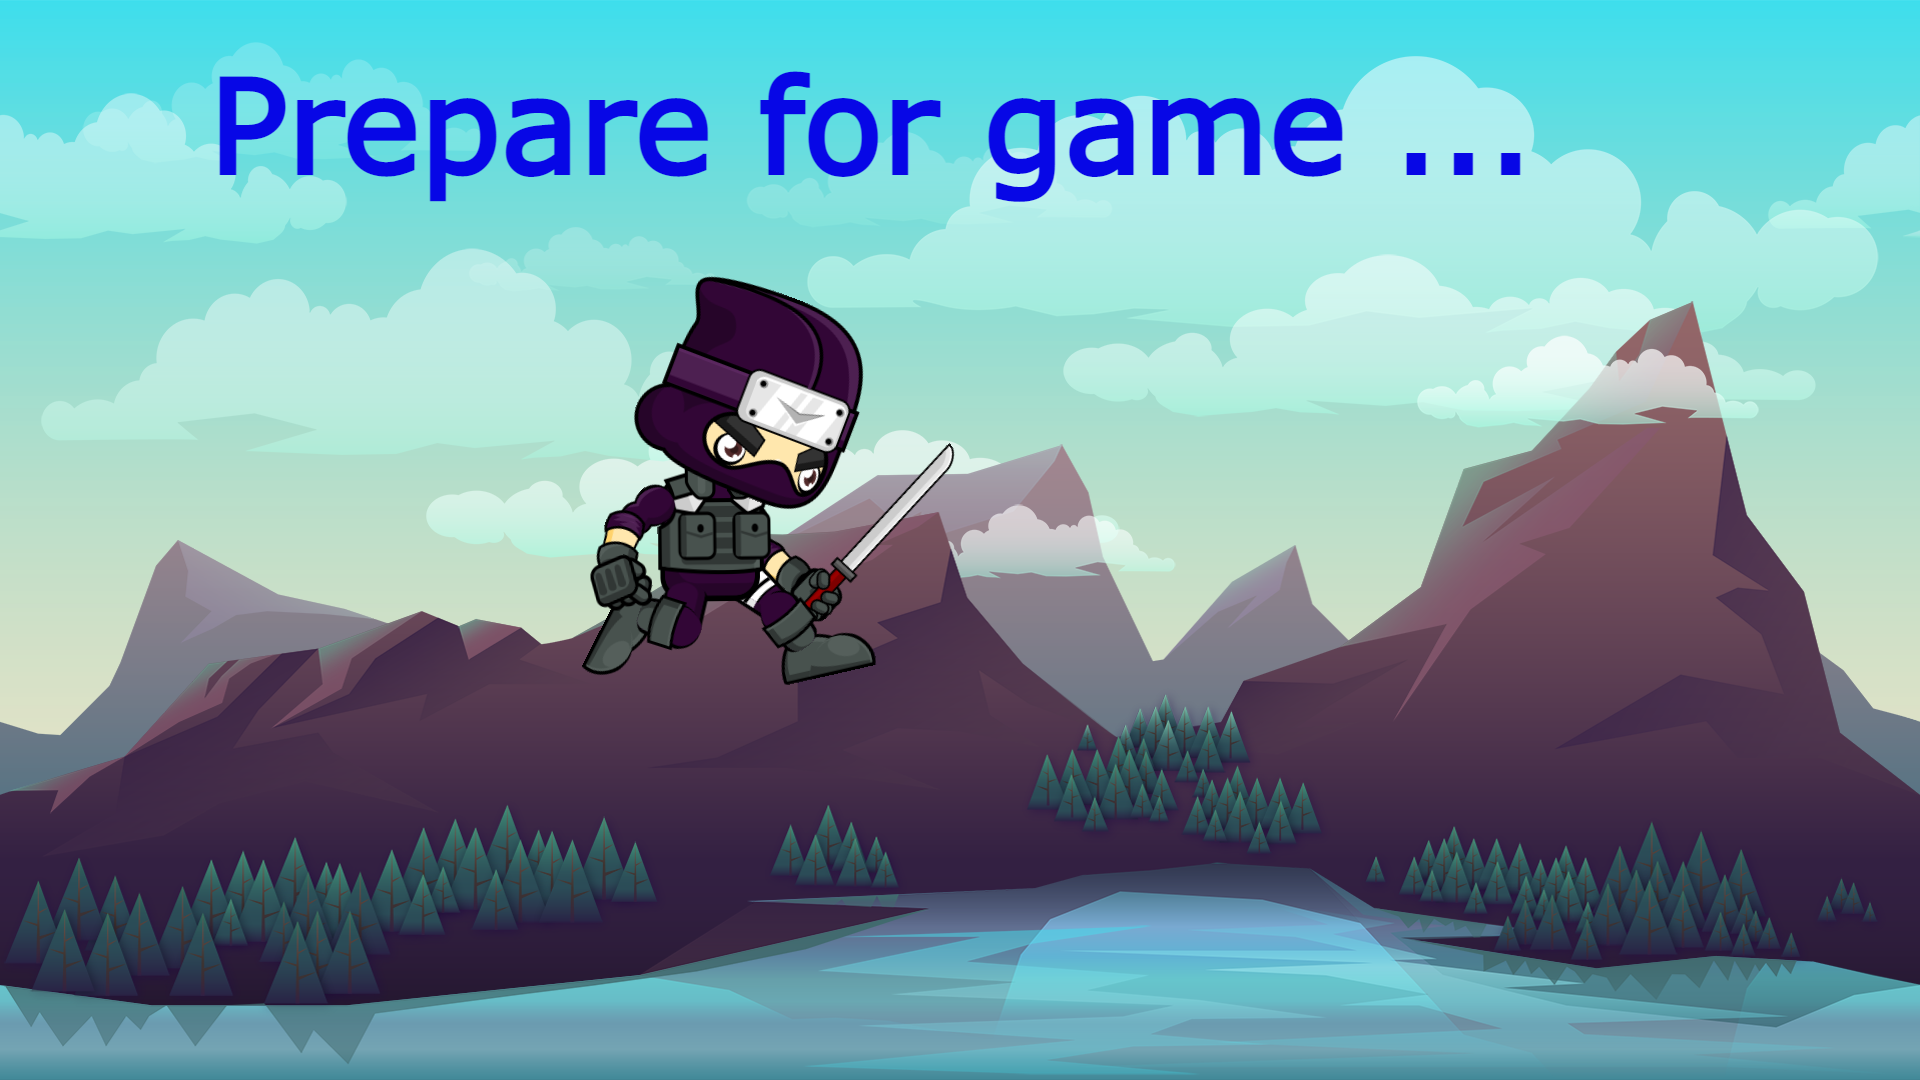
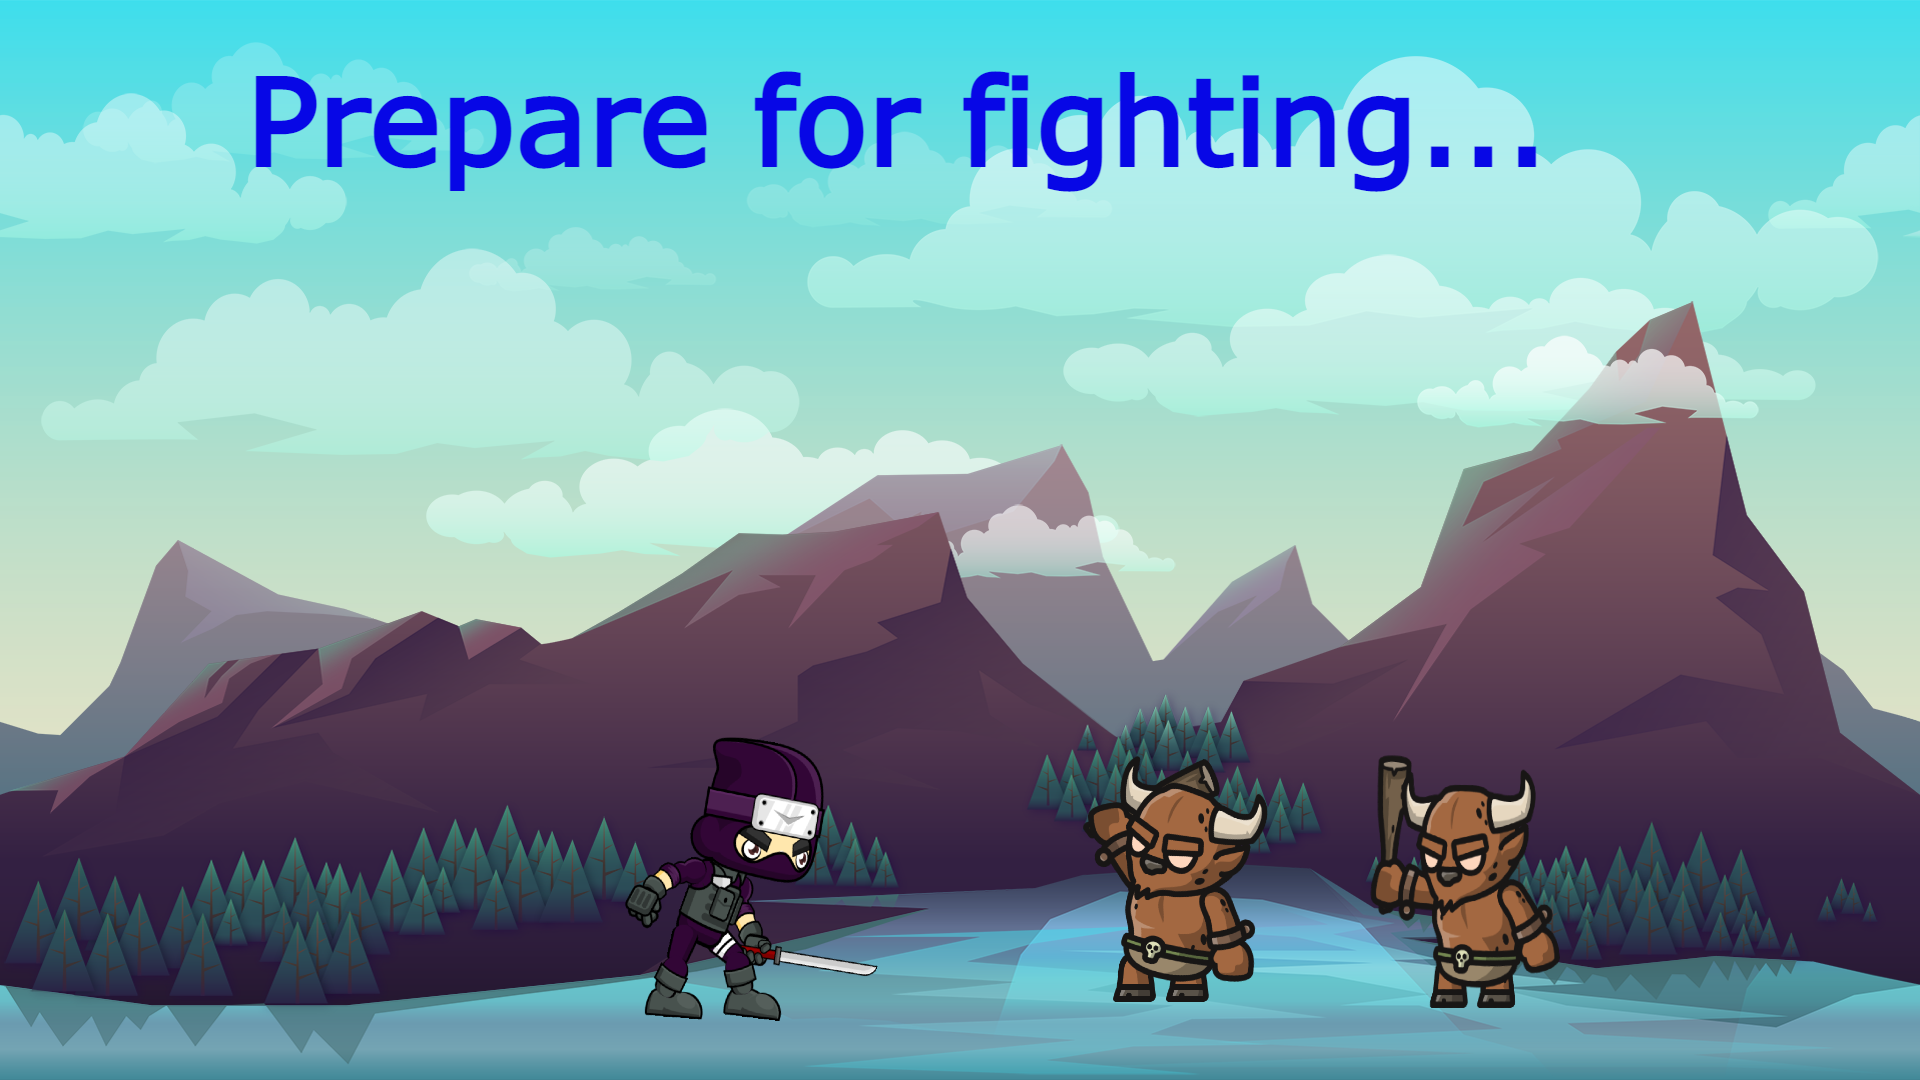
new intro img

diff --git a/models/minotaur.class.js b/models/minotaur.class.js
@@ -94,25 +94,28 @@ class Minotaur extends MovableObject {
      * executes moving left or right (folowing character) when movement triggered by character
      */
     animate() {
-        this.enemyLife = setInterval(() => {
-            if (this.world.character.isDead()) {
-                this.playAnimation(this.IMAGES_IDLE);
-            }
-            if (!this.world.character.isDead()) {
-                if (this.isDead() && this.deadTimer > 0) {
-                    this.playAnimation(this.IMAGES_DYING);
-                    this.world.audio[5].play();
-                    this.deadTimer--;
-                } else if (this.isDead() && this.deadTimer == 0) {
-                    this.world.audio[5].pause();
-                    this.gotKilled();
-                } else if (this.characterLeft(this)) {
-                    this.enemieMoving(this.moveLeft());
-                } else if (this.characterRight(this)) {
-                    this.enemieMoving(this.moveRight());
+        setTimeout(() => {
+
+            this.enemyLife = setInterval(() => {
+                if (this.world.character.isDead()) {
+                    this.playAnimation(this.IMAGES_IDLE);
                 }
-            }
-        }, 50);
+                if (!this.world.character.isDead()) {
+                    if (this.isDead() && this.deadTimer > 0) {
+                        this.playAnimation(this.IMAGES_DYING);
+                        this.world.audio[5].play();
+                        this.deadTimer--;
+                    } else if (this.isDead() && this.deadTimer == 0) {
+                        this.world.audio[5].pause();
+                        this.gotKilled();
+                    } else if (this.characterLeft(this)) {
+                        this.enemieMoving(this.moveLeft());
+                    } else if (this.characterRight(this)) {
+                        this.enemieMoving(this.moveRight());
+                    }
+                }
+            }, 50);
+        }, 8000);
     }
 
 

diff --git a/js/game.js b/js/game.js
@@ -28,7 +28,7 @@ function hideStartScreen() {
         if (isMobile() || isAppleDevice()) {
             document.getElementById('panelcontainer').style.display = "flex";
         }
-    }, 4000);
+    }, 8000);
 }
 
 
@@ -44,11 +44,7 @@ function checkDevice() {
                 deviceLandscape();
                 // checkPanelcontainerNeeded();
             }
-        } 
-        // else if (!isMobile()) {
-        //     closeFullscreen(canvas);
-        // }
-        if (isAppleDevice()) {
+        } if (isAppleDevice()) {
             deviceLandscape();
             // checkPanelcontainerNeeded();
         }

diff --git a/models/world.class.js b/models/world.class.js
@@ -111,7 +111,7 @@ class World {
         setTimeout(() => {
             this.audio[0].play();
             this.audio[0].volume = 0.5;
-        }, 4000);
+        }, 8000);
         // document.getElementById('volume').style.display = "none";
     }
 
